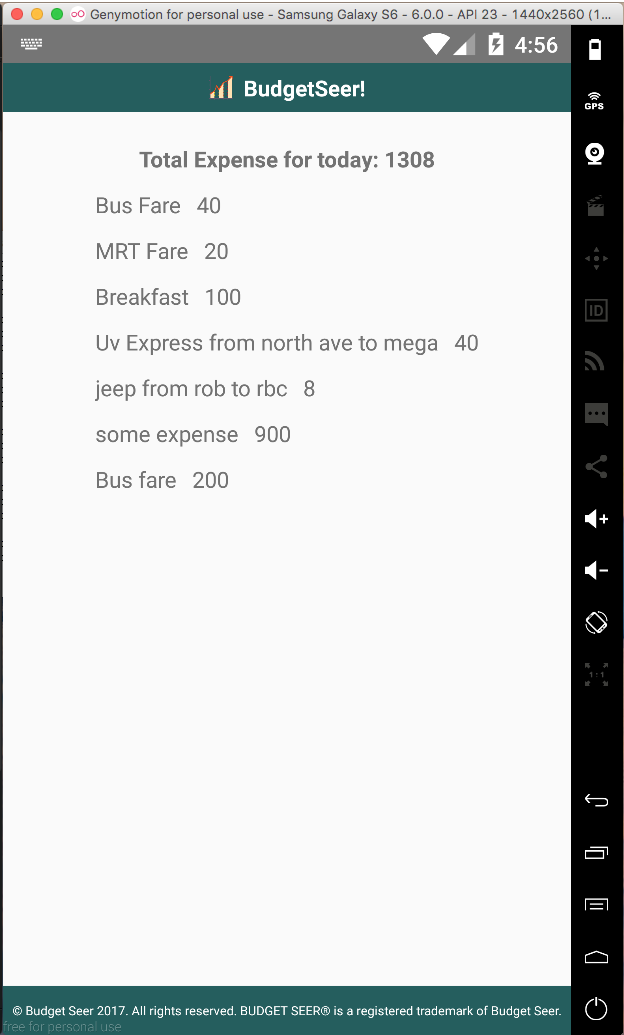
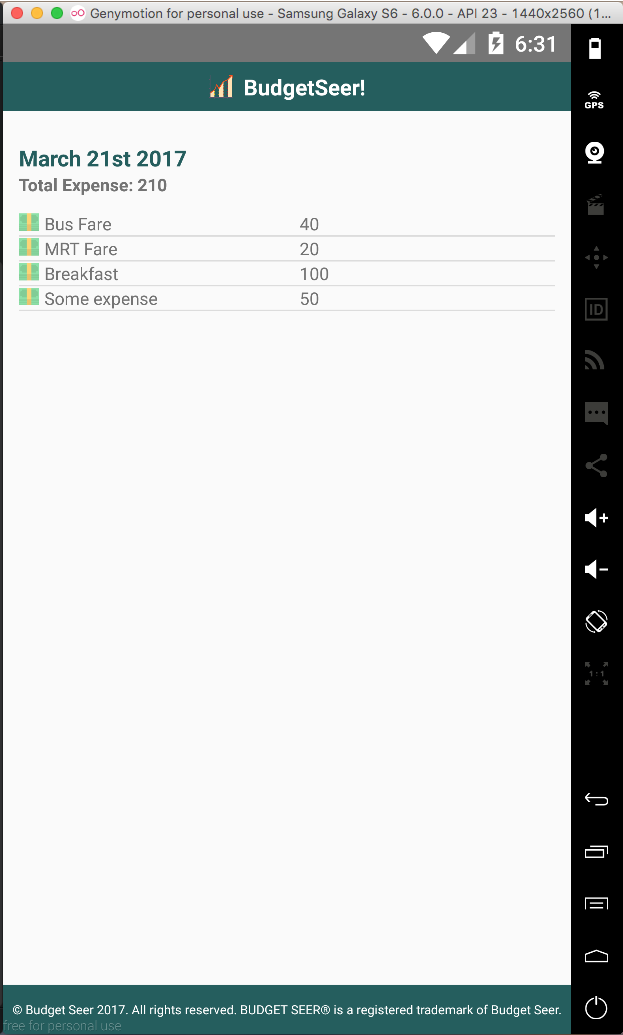
refactored ui for the list screen

diff --git a/app/components/ExpenseList.js b/app/components/ExpenseList.js
@@ -3,11 +3,14 @@ import {
   StyleSheet,
   View,
   Text,
-  ListView
+  ListView,
+  Image
 } from 'react-native'
-
+import moment from 'moment'
 import Header from './Header';
 import Footer from './Footer';
+
+const icon = require('../images/money.png');
 
 export default class ExpenseList extends Component {
   constructor(props) {
@@ -16,25 +19,34 @@ export default class ExpenseList extends Component {
 
   renderList() {
     const ds = new ListView.DataSource({rowHasChanged: (r1, r2) => r1 !== r2})
-    function renderRow(rowData) {
-      return (
-        <View style={styles.listViewContainer}>
-          <Text style={styles.expenseDescription}>{rowData.description}</Text>
-          <Text>{rowData.amount}</Text>
-        </View>
-      )
-    }
 
     return (
       <ListView
+        style={styles.listView}
         dataSource={ds.cloneWithRows(this.props.expenses)}
         renderRow={renderRow}
       />
     )
+
+    function renderRow(rowData) {
+      return (
+        <View style={styles.listViewRowContainer}>
+          <View style={styles.iconColumn}>
+            <Image style={styles.icon} source={icon} />
+          </View>
+          <View style={styles.rowColumn}>
+            <Text style={styles.rowItemText}>{rowData.description}</Text>
+          </View>
+          <View style={styles.rowColumn}>
+            <Text style={styles.rowItemText}>{rowData.amount}</Text>
+          </View>
+        </View>
+      )
+    }
+
   }
 
   computeTotal() {
-    console.log('mon was here')
     let total = this.props.expenses.map( function(expense) {
       return expense.amount
     }).reduce(function(acc, val) {
@@ -48,7 +60,8 @@ export default class ExpenseList extends Component {
       <View style={styles.container}>
         <Header />
         <View style={styles.list}>
-          <Text style={styles.totalExpense}>Total Expense for today: {this.computeTotal()}</Text>
+          <Text style={styles.date}>{moment().format('MMMM Do YYYY')}</Text>
+          <Text style={styles.total}>Total Expense: {this.computeTotal()}</Text>
           {this.renderList()}
         </View>
         <Footer />
@@ -64,20 +77,39 @@ const styles = StyleSheet.create({
   },
   list: {
     flex: 17,
-    alignItems: 'center',
-    justifyContent: 'center',
     marginTop: 20,
-  },
-  listViewContainer: {
-    flex: 1,
-    flexDirection: 'row'
-  },
-  expenseDescription: {
+    marginLeft: 10,
     marginRight: 10,
-    marginBottom: 10
   },
-  totalExpense: {
+  listView: {
+    flex: 1
+  },
+  listViewRowContainer: {
+    flex: 1,
+    flexDirection: 'row',
+    borderBottomWidth: 1,
+    borderColor: '#dcdcdc',
+  },
+  rowColumn: {
+    flex: 1,
+  },
+  iconColumn: {
+    flex: .1
+  },
+  rowItemText: {
+    fontSize: 11
+  },
+  total: {
     marginBottom: 10,
-    fontWeight: '900'
+    fontWeight: '900',
+    fontSize: 11
+  },
+  date: {
+    fontWeight: '900',
+    color: '#255e5e'
+  },
+  icon: {
+    height: 13,
+    width: 13
   }
 });
